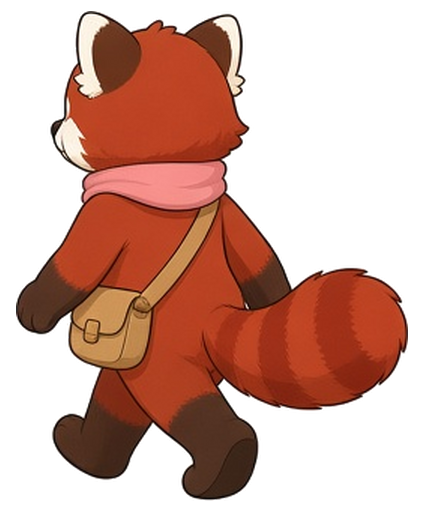
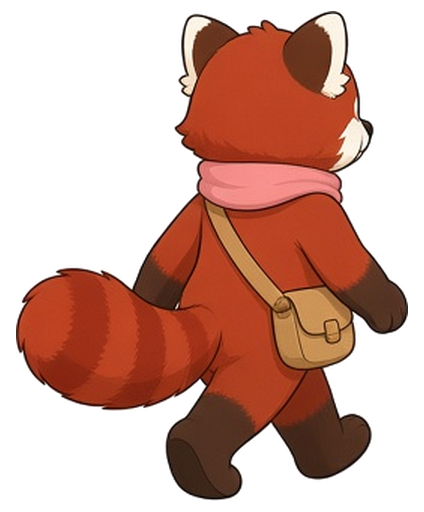
fix: face walkers from each sheet's authored direction
Mirror from per-actor frontFacesRight and backFacesRight. Flip the five frames that faced the opposite way from the rest of their sheet.

diff --git a/src/canvas/plaza.ts b/src/canvas/plaza.ts
@@ -298,16 +298,29 @@ export interface Facing {
   mirror: boolean
 }
 
-/** Down or right faces the camera. Up faces away. Left mirrors a front walk. */
-export function walkFacing(dx: number, dy: number): Facing {
+/** Which way the unmirrored sheet is drawn. Batch 1's cat is the default. */
+export interface WalkSheet {
+  frontFacesRight: boolean
+  backFacesRight: boolean
+}
+
+const CAT_SHEET: WalkSheet = { frontFacesRight: true, backFacesRight: false }
+
+/**
+ * Flip the sheet so the face points with `dx`.
+ * `dx === 0` leaves the drawing as authored.
+ */
+export function walkMirror(dx: number, facing: 'front' | 'back', sheet: WalkSheet = CAT_SHEET): boolean {
+  if (dx === 0) return false
+  const nativeRight = facing === 'front' ? sheet.frontFacesRight : sheet.backFacesRight
+  return nativeRight !== dx > 0
+}
+
+/** Down or right faces the camera. Up faces away. Mirror follows the sheet and dx. */
+export function walkFacing(dx: number, dy: number, sheet: WalkSheet = CAT_SHEET): Facing {
   if (dx === 0 && dy === 0) return { facing: 'front', mirror: false }
-  if (Math.abs(dy) >= Math.abs(dx)) {
-    if (dy >= 0) return { facing: 'front', mirror: dx < 0 }
-    // Back sheets lean the other way, so a step to screen-right is mirrored.
-    return { facing: 'back', mirror: dx > 0 }
-  }
-  if (dx >= 0) return { facing: 'front', mirror: false }
-  return { facing: 'front', mirror: true }
+  const facing: 'front' | 'back' = Math.abs(dy) >= Math.abs(dx) && dy < 0 ? 'back' : 'front'
+  return { facing, mirror: walkMirror(dx, facing, sheet) }
 }
 
 /** A step shorter than this does not change which way someone is facing. */
@@ -322,9 +335,15 @@ const FACING_COMMIT = 1
  * Mirror follows dx. A character who has stopped, or whose step is inside the
  * dead zone, keeps the facing they already had.
  */
-export function facingFromStep(dx: number, dy: number, moving: boolean, held: Facing): Facing {
+export function facingFromStep(
+  dx: number,
+  dy: number,
+  moving: boolean,
+  held: Facing,
+  sheet: WalkSheet = CAT_SHEET,
+): Facing {
   if (!moving || Math.hypot(dx, dy) < FACING_DEAD_ZONE) return held
-  const next = walkFacing(dx, dy)
+  const next = walkFacing(dx, dy, sheet)
   if (next.facing === held.facing) {
     if (next.mirror !== held.mirror && Math.abs(dx) < FACING_DEAD_ZONE) return held
     return next
@@ -356,6 +375,15 @@ export interface ArtPiece {
   frames?: WalkFrames
   /** Overrides `walkFps` for this sheet. */
   fps?: number
+  frontFacesRight?: boolean
+  backFacesRight?: boolean
+}
+
+function walkSheetOf(art: { frontFacesRight?: boolean; backFacesRight?: boolean }): WalkSheet {
+  return {
+    frontFacesRight: art.frontFacesRight ?? CAT_SHEET.frontFacesRight,
+    backFacesRight: art.backFacesRight ?? CAT_SHEET.backFacesRight,
+  }
 }
 
 function piece(src: string, width: number, height: number, drawH: number): ArtPiece {
@@ -366,20 +394,21 @@ function piece(src: string, width: number, height: number, drawH: number): ArtPi
  * Characters with a walk sheet. Adding the next batch is a new row:
  * animals and hires are keyed by id, dogs by `${dog}-puppy`.
  * Feet sit at `foot` on a `height` canvas (these sheets: y=500 of 512).
+ * `frontFacesRight` / `backFacesRight` describe the unmirrored drawing.
  */
-export const WALK_ACTORS: Record<string, { file: string; width: number; height: number; foot: number }> = {
-  cat: { file: 'cat', width: 360, height: 512, foot: 500 },
-  rabbit: { file: 'rabbit', width: 284, height: 512, foot: 500 },
-  hamster: { file: 'hamster', width: 404, height: 512, foot: 500 },
-  sparrow: { file: 'duck', width: 396, height: 512, foot: 500 },
-  'white-puppy': { file: 'white-puppy', width: 374, height: 512, foot: 500 },
-  'brown-puppy': { file: 'brown-puppy', width: 430, height: 512, foot: 500 },
-  hedgehog: { file: 'hedgehog', width: 370, height: 512, foot: 500 },
-  otter: { file: 'otter', width: 414, height: 512, foot: 500 },
-  bear: { file: 'raccoon', width: 400, height: 512, foot: 500 },
-  fox: { file: 'red-panda', width: 424, height: 512, foot: 500 },
-  ferret: { file: 'ferret', width: 450, height: 512, foot: 500 },
-  munia: { file: 'munia', width: 456, height: 512, foot: 500 },
+export const WALK_ACTORS: Record<string, { file: string; width: number; height: number; foot: number } & WalkSheet> = {
+  cat: { file: 'cat', width: 360, height: 512, foot: 500, frontFacesRight: true, backFacesRight: false },
+  rabbit: { file: 'rabbit', width: 284, height: 512, foot: 500, frontFacesRight: false, backFacesRight: true },
+  hamster: { file: 'hamster', width: 404, height: 512, foot: 500, frontFacesRight: false, backFacesRight: false },
+  sparrow: { file: 'duck', width: 396, height: 512, foot: 500, frontFacesRight: false, backFacesRight: true },
+  'white-puppy': { file: 'white-puppy', width: 374, height: 512, foot: 500, frontFacesRight: true, backFacesRight: true },
+  'brown-puppy': { file: 'brown-puppy', width: 430, height: 512, foot: 500, frontFacesRight: true, backFacesRight: true },
+  hedgehog: { file: 'hedgehog', width: 370, height: 512, foot: 500, frontFacesRight: true, backFacesRight: true },
+  otter: { file: 'otter', width: 414, height: 512, foot: 500, frontFacesRight: false, backFacesRight: true },
+  bear: { file: 'raccoon', width: 400, height: 512, foot: 500, frontFacesRight: false, backFacesRight: true },
+  fox: { file: 'red-panda', width: 424, height: 512, foot: 500, frontFacesRight: false, backFacesRight: true },
+  ferret: { file: 'ferret', width: 450, height: 512, foot: 500, frontFacesRight: false, backFacesRight: false },
+  munia: { file: 'munia', width: 456, height: 512, foot: 500, frontFacesRight: false, backFacesRight: true },
 }
 
 function actorPiece(base: ArtPiece, actorId: string): ArtPiece {
@@ -392,6 +421,8 @@ function actorPiece(base: ArtPiece, actorId: string): ArtPiece {
   return {
     ...base,
     footOffset: (sheet.height - sheet.foot) / sheet.height,
+    frontFacesRight: sheet.frontFacesRight,
+    backFacesRight: sheet.backFacesRight,
     frames: {
       front: [1, 2, 3].map((n) => frame('front', n)),
       back: [1, 2, 3].map((n) => frame('back', n)),
@@ -833,11 +864,12 @@ export function layoutScene(street: Street, timeMs = 0, motion?: SceneMotion): S
     const travel = Math.hypot(here.point.x - prevPose.point.x, here.point.y - prevPose.point.y)
     const walking = glide.glance ? false : previous && prevVisitor ? travel > 3 : here.mode !== 'stand'
     const delta = walking ? { x: here.point.x - prevPose.point.x, y: here.point.y - prevPose.point.y } : here.tangent
-    const facing = Math.hypot(delta.x, delta.y) > 0.5 ? walkFacing(delta.x, delta.y) : walkFacing(here.tangent.x, here.tangent.y)
-    let mirror = facing.mirror
-    if (glide.glance === 'left') mirror = true
-    if (glide.glance === 'right') mirror = false
     const art = ANIMAL_ART[visitor.species]
+    const lean = walkSheetOf(art)
+    const facing = Math.hypot(delta.x, delta.y) > 0.5 ? walkFacing(delta.x, delta.y, lean) : walkFacing(here.tangent.x, here.tangent.y, lean)
+    let mirror = facing.mirror
+    if (glide.glance === 'left') mirror = walkMirror(-1, facing.facing, lean)
+    if (glide.glance === 'right') mirror = walkMirror(1, facing.facing, lean)
     const frame = selectArtFrame(art, facing.facing, timeMs, walking, gameConfig.walkFps)
     const sheet: ArtPiece = { ...art, src: frame.src, aspect: frame.aspect }
     poseIntent.set(`visitor-${visitor.id}`, { art, fallback: facing, glance: glide.glance })
@@ -863,11 +895,13 @@ export function layoutScene(street: Street, timeMs = 0, motion?: SceneMotion): S
     const point = post
     const walking = Boolean(placed?.walking) && !reduce
     const face = placed && walking ? { x: placed.faceX, y: placed.faceY } : faceStaff(street, member.id, point)
-    const facing = Math.hypot(face.x, face.y) > 0.5 ? walkFacing(face.x, face.y) : { facing: 'front' as const, mirror: false }
+    const direction = Math.hypot(face.x, face.y) > 0.5 ? walkFacing(face.x, face.y) : { facing: 'front' as const, mirror: false }
     const art =
       member.kind === 'hire' && member.hireSpecies
         ? HIRE_ART[member.hireSpecies]
-        : puppyArt(member.dog === 'brown' ? 'brown' : 'white', member.job, facing, walking)
+        : puppyArt(member.dog === 'brown' ? 'brown' : 'white', member.job, direction, walking)
+    const lean = walkSheetOf(art)
+    const facing = Math.hypot(face.x, face.y) > 0.5 ? walkFacing(face.x, face.y, lean) : direction
     const frame = selectArtFrame(art, facing.facing, timeMs, walking, gameConfig.walkFps)
     const sheet: ArtPiece = { ...art, src: frame.src, aspect: frame.aspect }
     poseIntent.set(`staff-${member.id}`, { art, fallback: facing, glance: null })
@@ -937,14 +971,15 @@ function commitPoses(
     if (!plan) continue
     live.add(person.id)
     const prev = memory?.get(person.id)
+    const lean = walkSheetOf(plan.art)
     const facing = prev
-      ? facingFromStep(person.x - prev.x, person.y - prev.y, person.bob, prev.facing)
+      ? facingFromStep(person.x - prev.x, person.y - prev.y, person.bob, prev.facing, lean)
       : plan.fallback
     const frame = selectArtFrame(plan.art, facing.facing, timeMs, person.bob, gameConfig.walkFps)
     person.src = frame.src
     person.aspect = frame.aspect
-    if (plan.glance === 'left') person.mirror = true
-    else if (plan.glance === 'right') person.mirror = false
+    if (plan.glance === 'left') person.mirror = walkMirror(-1, facing.facing, lean)
+    else if (plan.glance === 'right') person.mirror = walkMirror(1, facing.facing, lean)
     else person.mirror = facing.mirror
     memory?.set(person.id, { x: person.x, y: person.y, facing })
   }

diff --git a/src/canvas/walk.test.ts b/src/canvas/walk.test.ts
@@ -12,6 +12,8 @@ import {
   artSources,
   layoutScene,
   queueSpot,
+  walkFacing,
+  walkMirror,
 } from './plaza'
 import type { HireSpecies, Species } from '../rules/types'
 import {
@@ -186,6 +188,41 @@ describe('walk frames', () => {
       expect(person?.footOffset).toBeCloseTo((512 - 500) / 512)
       expect(person?.drawH).toBeGreaterThan(CUSTOMER_H * 0.8)
       expect(person?.drawH).toBeLessThan(CUSTOMER_H * 1.05)
+    }
+  })
+
+  it('faces every walker along dx, using that sheet\'s authored direction', () => {
+    const authored: Record<string, { frontFacesRight: boolean; backFacesRight: boolean }> = {
+      cat: { frontFacesRight: true, backFacesRight: false },
+      rabbit: { frontFacesRight: false, backFacesRight: true },
+      hamster: { frontFacesRight: false, backFacesRight: false },
+      sparrow: { frontFacesRight: false, backFacesRight: true },
+      'white-puppy': { frontFacesRight: true, backFacesRight: true },
+      'brown-puppy': { frontFacesRight: true, backFacesRight: true },
+      hedgehog: { frontFacesRight: true, backFacesRight: true },
+      otter: { frontFacesRight: false, backFacesRight: true },
+      bear: { frontFacesRight: false, backFacesRight: true },
+      fox: { frontFacesRight: false, backFacesRight: true },
+      ferret: { frontFacesRight: false, backFacesRight: false },
+      munia: { frontFacesRight: false, backFacesRight: true },
+    }
+    expect(Object.keys(WALK_ACTORS).sort()).toEqual(Object.keys(authored).sort())
+    const shownRight = (nativeRight: boolean, mirror: boolean) => nativeRight !== mirror
+    for (const [id, flags] of Object.entries(authored)) {
+      const actor = WALK_ACTORS[id]
+      expect(actor?.frontFacesRight, id).toBe(flags.frontFacesRight)
+      expect(actor?.backFacesRight, id).toBe(flags.backFacesRight)
+      for (const facing of ['front', 'back'] as const) {
+        const nativeRight = facing === 'front' ? flags.frontFacesRight : flags.backFacesRight
+        const dy = facing === 'back' ? -6 : 1
+        const right = walkFacing(4, dy, actor)
+        const left = walkFacing(-4, dy, actor)
+        expect(right.facing, `${id} ${facing} right`).toBe(facing)
+        expect(left.facing, `${id} ${facing} left`).toBe(facing)
+        expect(shownRight(nativeRight, right.mirror), `${id} ${facing} walks right`).toBe(true)
+        expect(shownRight(nativeRight, left.mirror), `${id} ${facing} walks left`).toBe(false)
+        expect(walkMirror(0, facing, flags), `${id} ${facing} vertical`).toBe(false)
+      }
     }
   })
 

diff --git a/src/canvas/plaza.test.ts b/src/canvas/plaza.test.ts
@@ -309,7 +309,7 @@ describe('walking poses', () => {
     const white = scene.find((sprite) => sprite.id === 'staff-dog-white')
     const brown = scene.find((sprite) => sprite.id === 'staff-dog-brown')
     expect(white?.src).toMatch(/white-puppy-back-/)
-    expect(white?.mirror).toBe(true)
+    expect(white?.mirror).toBe(false)
     expect(brown?.src).toMatch(/brown-puppy-back-/)
     expect(walkFacing(8, 1)).toEqual({ facing: 'front', mirror: false })
   })
